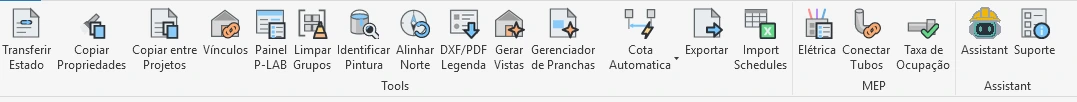
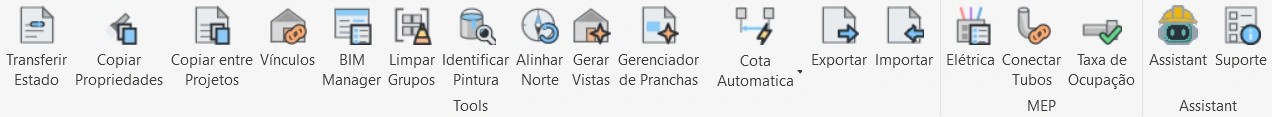
Soluções: agente externo grátis (2.3.2), botão Importar, Import Schedules e ribbon nova
- Card grátis do agente externo (P-LAB MCP) antes do Júnior; MCP sai do Pleno
- Card DXF/PDF Legenda vira Importar, com o Import Schedules (2.3.1)
- Lista de botões da 2.3.2 (BIM Manager, Importar, Assistant, Taxa de Ocupação)
- Prints novos da ribbon, claro e escuro

Claude-Session: https://claude.ai/code/session_01NtyVXGWg3snhJmnVDai32k

diff --git a/solucoes.html b/solucoes.html
@@ -143,7 +143,7 @@
                                 <p>O add-in gratuito da P-LAB: baixe e use todas as ferramentas, sem cartão e sem prazo.</p>
                                 <ul>
                                 <li>Gerar vistas, gerenciar e exportar pranchas em lote</li>
-                                <li>Cota automática, legendas de DXF e PDF e tabelas para o Excel</li>
+                                <li>Cota automática, legendas de DXF e PDF e tabelas do Revit para o Excel e do Excel para o Revit</li>
                                 <li>MEP: taxa de ocupação, transferência de circuitos e queda de tensão</li>
                                 </ul>
                                 <p class="sanfona__acoes"><a class="btn-primary" href="https://github.com/plab-eng/P-LAB-releases/releases/latest" target="_blank" rel="noopener" data-instalador>Baixar grátis</a><a class="btn-secondary" href="#addin">Ver todos os botões →</a></p>
@@ -394,7 +394,7 @@
                 <span class="botao-painel">TODOS OS BOTÕES</span>
                 <h2 class="section-title-main">O que vem no add-in, painel por painel</h2>
                 <p class="planos-intro">A mesma organização da ribbon do Revit. A lista acompanha cada versão nova do add-in.</p>
-                <img src="images/ribbon-plab.webp" alt="A aba P-LAB na ribbon do Revit, com os painéis Tools, MEP e Assistant" width="1077" height="102" loading="lazy" class="ribbon-plab ribbon-claro"><img src="images/ribbon-plab-escuro.webp" alt="A aba P-LAB na ribbon do Revit, com os painéis Tools, MEP e Assistant" width="1073" height="98" loading="lazy" class="ribbon-plab ribbon-escuro">
+                <img src="images/ribbon-plab.webp" alt="A aba P-LAB na ribbon do Revit, com os painéis Tools, MEP e Assistant" width="1272" height="117" loading="lazy" class="ribbon-plab ribbon-claro"><img src="images/ribbon-plab-escuro.webp" alt="A aba P-LAB na ribbon do Revit, com os painéis Tools, MEP e Assistant" width="1272" height="125" loading="lazy" class="ribbon-plab ribbon-escuro">
                 <div class="modulos-grid">
                     <div class="feature-card modulo-card">
                         <h3>Tools</h3>
@@ -405,16 +405,17 @@
                             <li>Copiar Propriedades</li>
                             <li>Copiar entre Projetos</li>
                             <li>Vínculos</li>
-                            <li>Painel P-LAB</li>
+                            <li>BIM Manager</li>
                             <li>Limpar Grupos</li>
                             <li>Identificar Pintura</li>
                             <li>Alinhar Norte</li>
-                            <li>DXF/PDF Legenda</li>
                             <li>Gerar Vistas</li>
                             <li>Gerenciador de Pranchas</li>
                             <li>Cota Automática</li>
                             <li>Config Cotas</li>
                             <li>Exportar</li>
+                            <li>Importar</li>
+                            <li>Assistant</li>
                             <li>Suporte</li>
                             <li><span>Transferir Parâmetros</span> <span class="plano-tag" data-i18n="em-breve">Em breve</span></li>
                             <li><span>Eliminar Duplicados</span> <span class="plano-tag" data-i18n="em-breve">Em breve</span></li>
@@ -435,6 +436,7 @@
                             <!-- catalogo:mep -->
                             <li>Elétrica</li>
                             <li>Conectar Tubos</li>
+                            <li>Taxa de Ocupação</li>
                             <li><span>Anotar Circuitos, Conduletes e Disjuntores</span> <span class="plano-tag" data-i18n="em-breve">Em breve</span></li>
                             <li><span>Quadros: monitorar e redimensionar</span> <span class="plano-tag" data-i18n="em-breve">Em breve</span></li>
                             <li><span>Verificador NBR 5410</span> <span class="plano-tag" data-i18n="em-breve">Em breve</span></li>
@@ -450,8 +452,9 @@
                     <div class="modulos-coluna">
                         <div class="feature-card modulo-card">
                             <h3>PLAB Assistant</h3>
-                            <p><span class="plano-tag">Pago</span></p>
+                            <p><span class="plano-tag">Pago</span> <span class="plano-tag plano-tag--gratis">Agente externo grátis</span></p>
                             <p>A IA que lê e altera o seu modelo do Revit. Vem com o P-LAB OS e o P-LAB Viewer. <a href="#assistant">Ver o plano</a>.</p>
+                            <p>Sem plano, o botão Assistant liga o Claude Code, o Claude Desktop ou o Codex ao seu Revit, de graça. <a href="#agente-externo">Como funciona</a>.</p>
                         </div>
                         <div class="feature-card modulo-card modulo-card--sob-medida">
                             <h3>Plugin personalizado</h3>
@@ -497,8 +500,10 @@
                     </div>
 
                     <div class="feature-card botao-card">
-                        <h3>DXF/PDF Legenda</h3>
-                        <p>Traz um DXF ou PDF (carimbo, detalhe padrão, nota) para uma vista de legenda do Revit, pronta para ir para a prancha.</p>
+                        <!-- Botão Importar (add-in 2.3.2): espelho do Exportar, junta o DXF/PDF Legenda e o Import Schedules (2.3.1). -->
+                        <h3>Importar</h3>
+                        <p><strong>DXF/PDF Legenda:</strong> traz um DXF ou PDF (carimbo, detalhe padrão, nota) para uma vista de legenda do Revit, pronta para ir para a prancha.</p>
+                        <p><strong>Import Schedules:</strong> traz tabelas do Excel como linhas e texto nativos do Revit, vinculadas à planilha. Ao abrir o modelo, elas se atualizam sozinhas quando a planilha mudou.</p>
                         <button type="button" class="midia-play" data-video="videos/dxf-pdf-legenda.mp4" aria-label="Ver o vídeo: DXF/PDF Legenda">
                             <img src="images/ex-dxf-pdf-legenda.webp" alt="Um DXF e um PDF virando uma vista de legenda do Revit" width="1600" height="900" loading="lazy" class="print-plataforma">
                             <span class="midia-play__icone" aria-hidden="true"></span>
@@ -635,7 +640,8 @@
                         <h3>Como ele trabalha</h3>
                         <p><strong>Automatiza os add-ins que você já usa.</strong> Ele aciona os outros add-ins instalados, o P-LAB e os comandos do Revit, então o resultado sai no padrão que o escritório já tem. Peça “execute o plugin X nestas pranchas” ou “faça a documentação desta vista usando o plugin Y”; o que faltar, ele pergunta no painel. O que deu certo vira receita e passa a ser o padrão. <span class="plano-tag">Júnior e Pleno</span></p>
                         <p><strong>Escreve código no Revit quando não há botão.</strong> Lê o modelo, escreve e roda o código, confere o resultado olhando a vista e usa os botões e as receitas como atalhos. Ensaia a tarefa antes e junta tudo num único cartão para você aplicar. <span class="plano-tag plano-tag--gratis">Só no Pleno</span></p>
-                        <p><strong>Trabalha fora do Revit.</strong> Lê PDF, planilha, DXF e imagem, roda os scripts do escritório nas pastas que você autorizar e guarda a memória do projeto. Também se liga ao Claude Code ou ao Codex. <span class="plano-tag plano-tag--gratis">Só no Pleno</span></p>
+                        <p><strong>Trabalha fora do Revit.</strong> Lê PDF, planilha, DXF e imagem, roda os scripts do escritório nas pastas que você autorizar e guarda a memória do projeto. <span class="plano-tag plano-tag--gratis">Só no Pleno</span></p>
+                        <p><strong>Liga o Claude Code, o Claude Desktop ou o Codex ao Revit.</strong> O agente externo consulta o modelo, roda código e usa as ferramentas do P-LAB com a IA que você já assina. <span class="plano-tag plano-tag--gratis"><a href="#agente-externo">Grátis</a></span></p>
                     </div>
                     <figure class="cap-como__video">
                         <button type="button" class="midia-play cap-video" data-video="videos/assistant-cotas.mp4" aria-label="Ver o vídeo: cotas por pedido">
@@ -756,6 +762,46 @@
                 <h2 class="section-title-main" data-i18n="pl-niveis-title">Escolha o nível do seu Assistant</h2>
                 <div class="planos-grid planos-grid--assistant">
 
+                    <!-- Agente externo grátis (03/11/2026, add-in 2.3.2): Claude Code, Claude Desktop ou
+                         Codex ligados ao Revit pelo P-LAB MCP, em qualquer licença, com todas as ferramentas.
+                         A IA é a do usuário; não usa créditos da P-LAB. -->
+                    <div class="plano-card plano-card--tracejado" id="agente-externo">
+                        <span class="plano-tag plano-tag--gratis">Grátis no add-in</span>
+                        <h3 class="plano-nome">Agente externo <span class="plano-cond" data-no-translate>P-LAB MCP</span></h3>
+                        <div class="plano-preco">
+                            <span class="plano-valor plano-valor--gratis">R$ 0</span>
+                            <span class="plano-cond">em qualquer licença, inclusive a gratuita, sem cartão</span>
+                        </div>
+                        <p class="plano-destrava">Ligue o Claude Code, o Claude Desktop ou o Codex ao seu Revit, com a conexão em um clique.</p>
+                        <hr class="plano-divisor">
+                        <div class="plano-bloco">
+                            <span class="plano-bloco-titulo">A sua IA</span>
+                            <span class="plano-bloco-texto">Usa a assinatura que você já tem do Claude ou do ChatGPT (Codex). Não gasta créditos da P-LAB.</span>
+                        </div>
+                        <div class="plano-bloco">
+                            <span class="plano-bloco-titulo">O que o agente faz no Revit</span>
+                            <ul class="plano-lista">
+                                <li>Consulta o modelo</li>
+                                <li>Roda código C# ou Python com um único Desfazer</li>
+                                <li>Vê a vista ativa</li>
+                                <li>Usa as ferramentas prontas do P-LAB</li>
+                                <li>Salvar e exportar sempre perguntam no Revit</li>
+                            </ul>
+                        </div>
+                        <div class="plano-bloco">
+                            <span class="plano-bloco-titulo">Integrações</span>
+                            <span class="plano-bloco-texto">Revit 2021 a 2027, com <span data-no-translate>Claude Code</span>, <span data-no-translate>Claude Desktop</span> e <span data-no-translate>Codex</span></span>
+                        </div>
+                        <div class="plano-bloco">
+                            <span class="plano-bloco-titulo">Suporte</span>
+                            <span class="plano-bloco-texto">Pela comunidade. Ainda em validação no Revit: conte o que encontrar pelo botão Suporte do add-in.</span>
+                        </div>
+                        <div class="plano-pagar">
+                            <a href="https://github.com/plab-eng/P-LAB-releases/releases/latest" class="btn-secondary plano-botao" target="_blank" rel="noopener" data-instalador>Baixar grátis</a>
+                            <p class="plano-cond plano-letra-miuda">No Revit, abra o botão Assistant: sem plano pago, ele abre a janela Agente externo.</p>
+                        </div>
+                    </div>
+
                     <div class="plano-card plano-card--tracejado" data-plano="assistant">
                         <h3 class="plano-nome"><span data-no-translate>PLAB Júnior</span></h3>
                         <div class="plano-preco">
@@ -815,7 +861,7 @@
                         </div>
                         <div class="plano-bloco">
                             <span class="plano-bloco-titulo">Integrações</span>
-                            <span class="plano-bloco-texto">Revit 2021 a 2027 e agente externo (MCP), para quem usa outro cliente de IA</span>
+                            <span class="plano-bloco-texto">Revit 2021 a 2027</span>
                         </div>
                         <div class="plano-bloco">
                             <span class="plano-bloco-titulo">Formatos</span>
@@ -867,7 +913,7 @@
 
                 </div>
 
-                <p class="planos-comum">Nos dois planos: tudo em português · o seu modelo não sai do computador · a IA é da P-LAB, sem assinatura de IA à parte · os seus dados nunca treinam IA · o P-LAB OS e o Viewer completo vêm inclusos.</p>
+                <p class="planos-comum">No Júnior e no Pleno: tudo em português · o seu modelo não sai do computador · a IA é da P-LAB, sem assinatura de IA à parte · os seus dados nunca treinam IA · o P-LAB OS e o Viewer completo vêm inclusos.</p>
 
                 <!-- Faixa larga no lugar do "Enterprise" da referência. O Assistant
                      personalizado (treinado com o padrão do escritório) entra aqui. -->

diff --git a/style.css b/style.css
@@ -1031,7 +1031,13 @@ a:focus-visible, button:focus-visible { outline: 2px solid var(--accent); outlin
 /* ===== PLAB Júnior / Pleno / Sênior (planos.html, 20/10/2026) =====
    Formato da página de preços da Ideatura: borda tracejada, blocos curtos
    na mesma ordem em todos os cartões, botão no pé. Só tokens. */
-.planos-grid--assistant { grid-template-columns: repeat(auto-fit, minmax(min(280px, 100%), 1fr)); }
+.planos-grid--assistant { grid-template-columns: repeat(auto-fit, minmax(min(240px, 100%), 1fr)); gap: 16px; }
+/* 4 cartões lado a lado (agente externo grátis, 03/11/2026): recuo menor e sem quebras no meio de nomes. */
+.planos-grid--assistant .plano-card { padding: 24px 22px; }
+.planos-grid--assistant .plano-nome .plano-cond { display: block; margin-top: 2px; white-space: nowrap; }
+.planos-grid--assistant .plano-tag { white-space: nowrap; }
+.planos-grid--assistant .plano-bloco-titulo { text-wrap: balance; }
+.planos-grid--assistant .plano-botao { justify-content: center; }
 .plano-card--tracejado { border-style: dashed; }
 .plano-card--tracejado.plano-card--destaque { border-style: solid; }
 .plano-card--em-breve { opacity: 0.85; }
